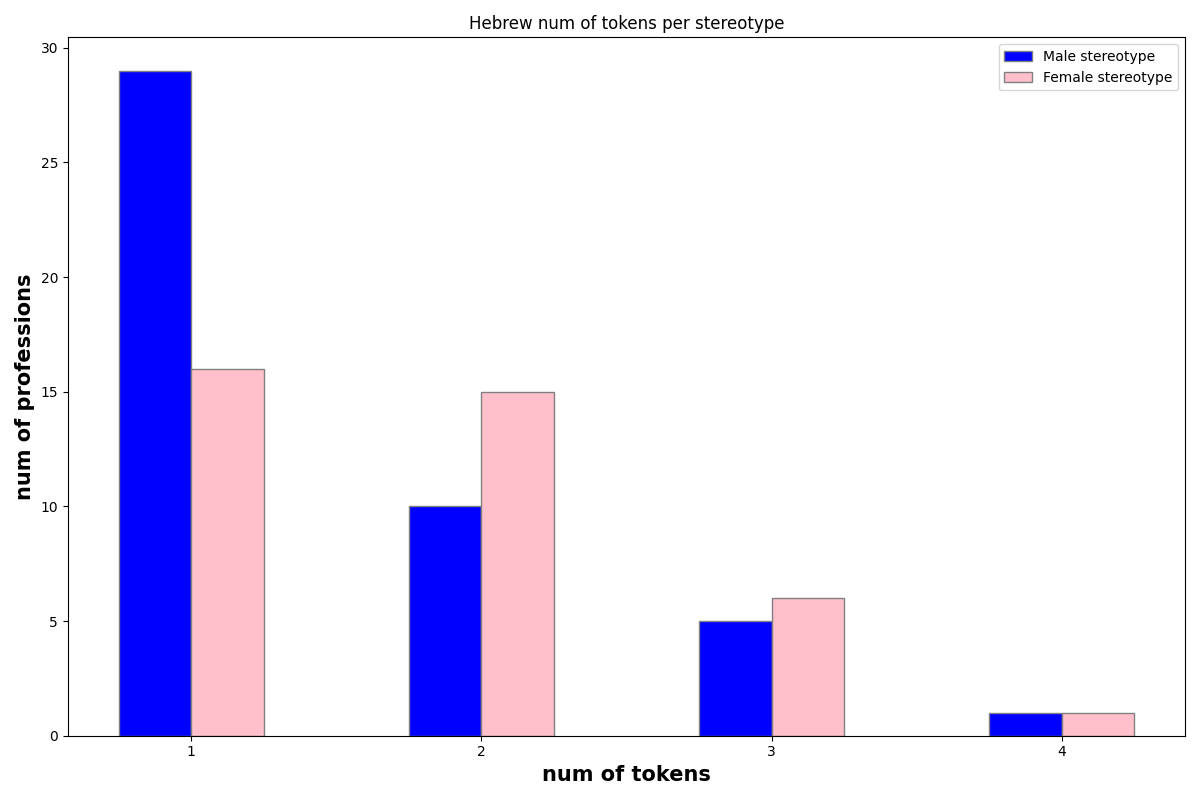
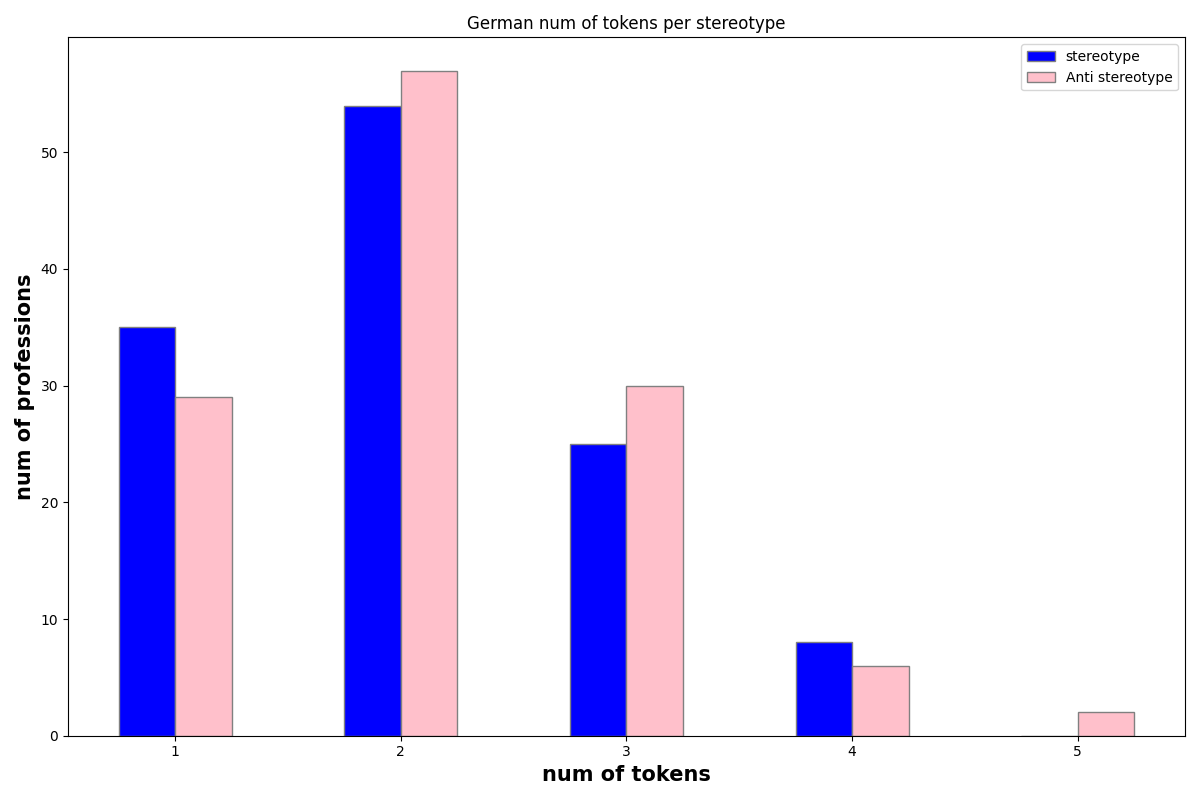
fixed stereotype graphs and added trendline to graph 5

diff --git a/code/merge_translations.py b/code/merge_translations.py
@@ -2,7 +2,6 @@ from transformers import MarianTokenizer
 import numpy as np
 import matplotlib.pyplot as plt
 import collections
-
 plt.style.use('seaborn-deep')
 
 tokenizer_de = MarianTokenizer.from_pretrained("Helsinki-NLP/opus-mt-en-de")
@@ -47,11 +46,11 @@ def get_num_of_tokens_per_profession(professions, translations_dict, tokenizer, 
         with tokenizer.as_target_tokenizer():
             for mp in m:
                 male_count += 1
-                male_tokens += len(tokenizer(mp)['input_ids'])
+                male_tokens += len(tokenizer(mp)['input_ids'][:-1])
             tokens_per_profession[profession]['Male'] = male_tokens / male_count
             for fp in f:
                 female_count += 1
-                female_tokens += len(tokenizer(fp)['input_ids'])
+                female_tokens += len(tokenizer(fp)['input_ids'][:-1])
         tokens_per_profession[profession]['Female'] = female_tokens / female_count
     with open(target_file, 'w+') as f:
         f.write(str(tokens_per_profession))
@@ -87,37 +86,41 @@ def get_num_of_tokens_per_gender(professions, translations_dict, tokenizer, targ
     max_tokens = max(max(male_num_of_tokens_map.keys()),max(female_num_of_tokens_map.keys()))
     return male_tokens / male_count, female_tokens / female_count, male_num_of_tokens_map, female_num_of_tokens_map, max_tokens
 
+def count_tokens(translations_dict, mp, count,tokenizer, tokens, num_of_tokens_map, gender):
+    professions = list(translations_dict[mp][gender])
+    count += len(professions)
+    for p in professions:
+        num_of_tokens = len(tokenizer(p)['input_ids'][:-1])
+        tokens += num_of_tokens
+        if num_of_tokens not in num_of_tokens_map:
+            num_of_tokens_map[num_of_tokens] = 1
+        else:
+            num_of_tokens_map[num_of_tokens] += 1
+    return tokens,count
 def get_num_of_tokens_per_stereotype(male_stereotype,female_stereotype,translations_dict, tokenizer, target_file):
-    male_stereotype_count, male_stereotype_tokens, female_stereotype_count, female_stereotype_tokens = 0, 0, 0, 0
-    male_stereotype_num_of_tokens_map, female_stereotype_num_of_tokens_map = {}, {}
+    stereotype_count, stereotype_tokens, anti_stereotype_count, anti_stereotype_tokens = 0, 0, 0, 0
+    stereotype_num_of_tokens_map, anti_stereotype_num_of_tokens_map = {}, {}
     with tokenizer.as_target_tokenizer():
         for mp in male_stereotype:
-            professions = list(translations_dict[mp]['Male'])
-            male_stereotype_count += len(professions)
-            for p in professions:
-                num_of_tokens = len(tokenizer(p)['input_ids'][:-1])
-                male_stereotype_tokens += num_of_tokens
-                if num_of_tokens not in male_stereotype_num_of_tokens_map:
-                    male_stereotype_num_of_tokens_map[num_of_tokens] = 1
-                else:
-                    male_stereotype_num_of_tokens_map[num_of_tokens] += 1
-
+            tokens,count = count_tokens(translations_dict, mp, stereotype_count,tokenizer, stereotype_tokens, stereotype_num_of_tokens_map,'Male')
+            stereotype_tokens+=tokens
+            stereotype_count+=count
+            tokens,count = count_tokens(translations_dict, mp, anti_stereotype_count,tokenizer, anti_stereotype_tokens, anti_stereotype_num_of_tokens_map,'Female')
+            anti_stereotype_tokens += tokens
+            anti_stereotype_count += count
         for fp in female_stereotype:
-            professions = list(translations_dict[fp]['Female'])
-            female_stereotype_count += len(professions)
-            for p in professions:
-                num_of_tokens = len(tokenizer(p)['input_ids'][:-1])
-                female_stereotype_tokens += num_of_tokens
-                if num_of_tokens not in female_stereotype_num_of_tokens_map:
-                    female_stereotype_num_of_tokens_map[num_of_tokens] = 1
-                else:
-                    female_stereotype_num_of_tokens_map[num_of_tokens] += 1
+            tokens,count = count_tokens(translations_dict, fp, stereotype_count,tokenizer, stereotype_tokens, stereotype_num_of_tokens_map,'Female')
+            stereotype_tokens += tokens
+            stereotype_count += count
+            tokens,count = count_tokens(translations_dict, fp, anti_stereotype_count,tokenizer, anti_stereotype_tokens, anti_stereotype_num_of_tokens_map,'Male')
+            anti_stereotype_tokens += tokens
+            anti_stereotype_count += count
     with open(target_file, 'w+') as f:
-        f.write("male stereotype: " + str(male_stereotype_tokens / male_stereotype_count) + "\n")
-        f.write("female stereotype: " + str(female_stereotype_tokens / female_stereotype_count) + "\n")
-    max_tokens = max(max(male_stereotype_num_of_tokens_map.keys()),max(female_stereotype_num_of_tokens_map.keys()))
-    return male_stereotype_tokens / male_stereotype_count, female_stereotype_tokens / female_stereotype_count,\
-           male_stereotype_num_of_tokens_map, female_stereotype_num_of_tokens_map, max_tokens
+        f.write("stereotype: " + str(stereotype_tokens / stereotype_count) + "\n")
+        f.write("anti stereotype: " + str(anti_stereotype_tokens / anti_stereotype_count) + "\n")
+    max_tokens = max(max(stereotype_num_of_tokens_map.keys()),max(anti_stereotype_num_of_tokens_map.keys()))
+    return stereotype_tokens / stereotype_count, anti_stereotype_tokens / anti_stereotype_count,\
+           stereotype_num_of_tokens_map, anti_stereotype_num_of_tokens_map, max_tokens
 
 def graphs_3_and_4(group1_num_of_tokens_map, group2_num_of_tokens_map, max_tokens, title, group1_name,group2_name):
     for i in range(1,max_tokens+1):
@@ -182,13 +185,13 @@ if __name__ == '__main__':
         female_stereotype = [i.strip() for i in female_stereotype]
 
     print("tokens per stereotype he")
-    he_male_stereotype_avg_tokens, he_female_stereotype_avg_tokens, \
-    he_male_stereotype_num_of_tokens_map, he_female_stereotype_num_of_tokens_map, he_max_tokens = \
+    he_stereotype_avg_tokens, he_anti_stereotype_avg_tokens, \
+    he_stereotype_num_of_tokens_map, he_anti_stereotype_num_of_tokens_map, he_max_tokens = \
         get_num_of_tokens_per_stereotype(male_stereotype, female_stereotype, he_translations, tokenizer_he, "../data/he_tokens_per_stereotype.txt")
-    graphs_3_and_4(he_male_stereotype_num_of_tokens_map, he_female_stereotype_num_of_tokens_map, he_max_tokens, "Hebrew num of tokens per stereotype", "Male stereotype", "Female stereotype")
+    graphs_3_and_4(he_stereotype_num_of_tokens_map, he_anti_stereotype_num_of_tokens_map, he_max_tokens, "Hebrew num of tokens per stereotype", "stereotype", "Anti stereotype")
 
     print("tokens per stereotype de")
-    de_male_stereotype_avg_tokens, de_female_stereotype_avg_tokens, \
-    de_male_stereotype_num_of_tokens_map, de_female_stereotype_num_of_tokens_map, de_max_tokens = \
+    de_stereotype_avg_tokens, de_anti_stereotype_avg_tokens, \
+    de_stereotype_num_of_tokens_map, de_anti_stereotype_num_of_tokens_map, de_max_tokens = \
         get_num_of_tokens_per_stereotype(male_stereotype, female_stereotype, de_translations, tokenizer_de, "../data/de_tokens_per_stereotype.txt")
-    graphs_3_and_4(de_male_stereotype_num_of_tokens_map, de_female_stereotype_num_of_tokens_map, de_max_tokens, "German num of tokens per stereotype", "Male stereotype", "Female stereotype")
+    graphs_3_and_4(de_stereotype_num_of_tokens_map, de_anti_stereotype_num_of_tokens_map, de_max_tokens, "German num of tokens per stereotype", "stereotype", "Anti stereotype")

diff --git a/code/graph_5.py b/code/graph_5.py
@@ -1,6 +1,6 @@
 import json
 import matplotlib.pyplot as plt
-
+import numpy as np
 def graph_5(recall_file,tokens_file,lang):
     with open(recall_file,"r") as f:
         recalls_str = (f.readlines())[-1]
@@ -22,12 +22,17 @@ def graph_5(recall_file,tokens_file,lang):
     for p in delta_t_dict.keys():
         delta_g_dict[p] = recalls_dict[p]['male_recall']-recalls_dict[p]['female_recall']
 
-    x = delta_t_dict.values()
-    y = delta_g_dict.values()
+    x = list(delta_t_dict.values())
+    y = list(delta_g_dict.values())
     plt.scatter(x, y, marker='o')
     plt.xlabel("Delta T")
     plt.ylabel("Delta G")
     plt.title("Delta G per Delta T for each profession "+lang)
+
+    z = np.polyfit(x, y, 1)
+    p = np.poly1d(z)
+    plt.plot(x, p(x), "r--")
+
     plt.show()
 
 if __name__ == '__main__':
